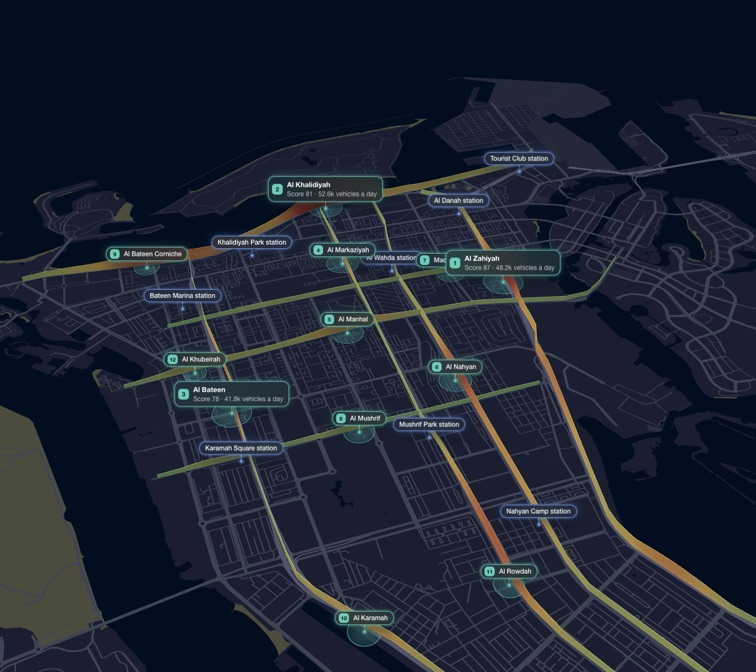
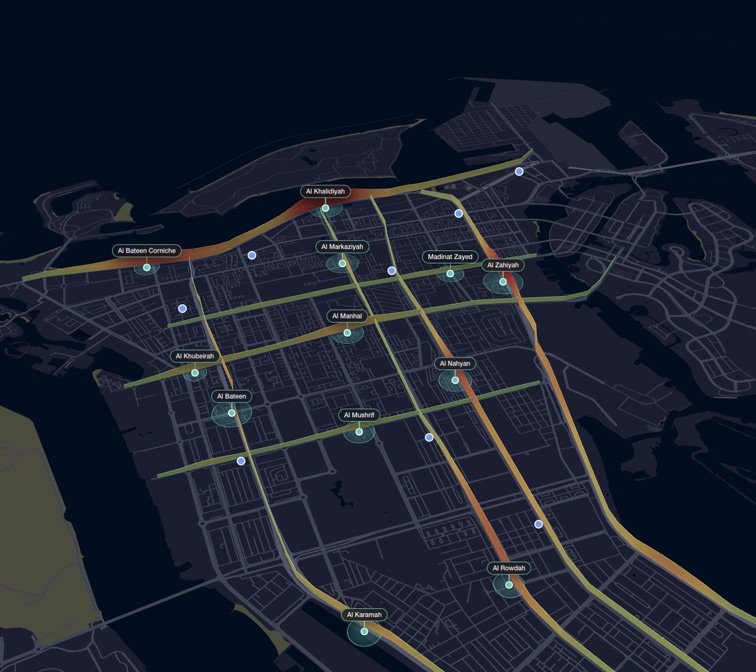
Tomtom: white-ringed dots for sites and stations, name-only pills for candidates, no glow

diff --git a/src/llumen-assistant/tomtom/tomtomMap.css b/src/llumen-assistant/tomtom/tomtomMap.css
@@ -89,7 +89,9 @@
 .tomtom-tip {
   position: absolute;
   z-index: 90;
-  width: 232px;
+  width: max-content;
+  min-width: 232px;
+  max-width: 340px;
   padding: 10px 12px;
   pointer-events: none;
   transform: translate(-50%, calc(-100% - 14px));
@@ -130,9 +132,9 @@
 }
 
 /*
- * A pin stands on its ground point (the element is translated there) as a tooltip above it, outlined in
- * its colour, with a stem down to the spot. `--pop` scales it in as the scene grows; `--z` keeps the best
- * sites on top.
+ * A pin stands on its ground point (the element is translated there): a dot in its colour ringed in
+ * white, and for a site a pill outlined in the same colour above it, joined by a stem. `--pop` scales it
+ * in as the scene grows; `--z` keeps the best sites on top.
  */
 .tomtom-pin {
   position: absolute;
@@ -155,52 +157,52 @@
   z-index: 80;
 }
 
-.tomtom-pin[data-passive='true'] .tomtom-pin-card {
+.tomtom-pin[data-passive='true'] > * {
   pointer-events: none;
 }
 
-.tomtom-pin::after {
-  content: '';
+.tomtom-pin-dot {
   position: absolute;
-  top: -2.5px;
-  left: -2.5px;
-  width: 5px;
-  height: 5px;
+  top: calc(var(--dot) / -2);
+  left: calc(var(--dot) / -2);
+  --dot: 14px;
+  box-sizing: border-box;
+  width: var(--dot);
+  height: var(--dot);
+  border: 2px solid #fff;
   border-radius: 999px;
   background: var(--pin);
-  box-shadow: 0 0 0 3px color-mix(in srgb, var(--pin) 24%, transparent);
+  box-shadow: 0 2px 6px rgba(0, 0, 0, 0.45);
   transform: scale(var(--pop, 1));
+  transition: transform 0.2s ease;
+}
+
+.tomtom-pin[data-kind='station'] .tomtom-pin-dot {
+  --dot: 16px;
 }
 
 .tomtom-pin-card {
   position: absolute;
-  bottom: 12px;
+  bottom: 19px;
   left: 0;
-  display: flex;
-  align-items: center;
-  gap: 8px;
-  padding: 5px 10px 5px 6px;
+  padding: 3px 10px;
   border: 1.5px solid var(--pin);
-  background: color-mix(in srgb, var(--pin) 12%, rgba(20, 22, 28, 0.62));
-  box-shadow:
-    0 0 0 3px color-mix(in srgb, var(--pin) 18%, transparent),
-    0 0 18px color-mix(in srgb, var(--pin) 28%, transparent),
-    0 10px 24px rgba(0, 0, 0, 0.4);
+  border-radius: 999px;
+  background: rgba(20, 22, 28, 0.72);
+  box-shadow: 0 6px 16px rgba(0, 0, 0, 0.35);
+  color: #fff;
+  font-size: 12px;
+  font-weight: 500;
+  line-height: 16px;
   white-space: nowrap;
-  text-align: left;
   transform: translateX(-50%) scale(var(--pop, 1));
   transform-origin: 50% 100%;
   transition:
     transform 0.2s ease,
-    background 0.16s ease,
-    box-shadow 0.2s ease;
+    background 0.16s ease;
 }
 
-.tomtom-pin[data-kind='station'] .tomtom-pin-card {
-  padding-left: 10px;
-}
-
-button.tomtom-pin .tomtom-pin-card {
+button.tomtom-pin > * {
   cursor: pointer;
 }
 
@@ -212,75 +214,32 @@ button.tomtom-pin .tomtom-pin-card {
   width: 1.5px;
   height: 12px;
   margin-left: -0.75px;
-  background: linear-gradient(var(--pin), color-mix(in srgb, var(--pin) 30%, transparent));
-}
-
-.tomtom-pin-rank {
-  display: grid;
-  flex-shrink: 0;
-  place-items: center;
-  min-width: 20px;
-  height: 20px;
-  padding: 0 4px;
-  border-radius: 6px;
   background: var(--pin);
-  color: #0b1414;
-  font-size: 11px;
-  font-weight: 700;
-  line-height: 1;
 }
 
-.tomtom-pin-copy {
-  display: flex;
-  flex-direction: column;
-  gap: 1px;
-}
-
-.tomtom-pin-card b {
-  color: #fff;
-  font-size: 13px;
-  font-weight: 600;
-  line-height: 18px;
-}
-
-.tomtom-pin[data-label='false'] .tomtom-pin-card {
-  padding-top: 3px;
-  padding-bottom: 3px;
-}
-
-.tomtom-pin[data-label='false'] .tomtom-pin-card b {
-  font-size: 12px;
-  font-weight: 500;
-  line-height: 16px;
-}
-
-.tomtom-pin[data-label='false'] .tomtom-pin-rank {
-  min-width: 18px;
-  height: 18px;
-  font-size: 10px;
-}
-
-button.tomtom-pin:hover .tomtom-pin-card,
+.tomtom-pin:hover .tomtom-pin-card,
 .tomtom-pin[data-active='true'] .tomtom-pin-card {
-  background: color-mix(in srgb, var(--pin) 20%, rgba(30, 32, 38, 0.72));
-  box-shadow:
-    0 0 0 4px color-mix(in srgb, var(--pin) 28%, transparent),
-    0 0 24px color-mix(in srgb, var(--pin) 36%, transparent),
-    0 12px 28px rgba(0, 0, 0, 0.5);
+  background: rgba(34, 36, 42, 0.86);
   transform: translateX(-50%) scale(calc(var(--pop, 1) * 1.04));
+}
+
+.tomtom-pin:hover .tomtom-pin-dot,
+.tomtom-pin[data-active='true'] .tomtom-pin-dot {
+  transform: scale(calc(var(--pop, 1) * 1.2));
 }
 
 button.tomtom-pin:focus-visible {
   outline: none;
 }
 
-button.tomtom-pin:focus-visible .tomtom-pin-card {
+button.tomtom-pin:focus-visible > :last-child {
   outline: 2px solid #70aeff;
   outline-offset: 2px;
 }
 
 @media (prefers-reduced-motion: reduce) {
   .tomtom-pin,
+  .tomtom-pin-dot,
   .tomtom-pin-card {
     transition: none;
   }

diff --git a/src/llumen-assistant/tomtom/tomtomScenario.ts b/src/llumen-assistant/tomtom/tomtomScenario.ts
@@ -221,8 +221,8 @@ const VOLUME_GROUP = 'volume'
 const DEMAND_GROUP = 'demand'
 const TRADE_GROUP = 'trade'
 
-/** Labelled pins carry a name card; the rest name themselves on hover. */
-function sitePin(site: Site, rank: number, labelled: boolean, evening = false): TomtomPin {
+/** A candidate carries its name; its figures show on hover. */
+function sitePin(site: Site, rank: number, evening = false): TomtomPin {
   const score = evening ? site.evening : site.score
   return {
     id: site.id,
@@ -230,9 +230,7 @@ function sitePin(site: Site, rank: number, labelled: boolean, evening = false): 
     color: SITE_COLOR,
     kind: 'site',
     rank,
-    label: labelled,
     title: site.area,
-    text: `${evening ? 'Evening score' : 'Score'} ${score} · ${site.traffic.toFixed(1)}k vehicles a day`,
     tip: {
       title: `${site.area} · Site ${rank}`,
       rows: [
@@ -248,15 +246,14 @@ function sitePin(site: Site, rank: number, labelled: boolean, evening = false): 
   }
 }
 
-function stationPin(station: (typeof STATIONS)[number], labelled = false): TomtomPin {
+/** A station is a dot; its name and figures show on hover. */
+function stationPin(station: (typeof STATIONS)[number]): TomtomPin {
   return {
     id: station.id,
     at: station.at,
     color: STATION_COLOR,
     kind: 'station',
-    label: labelled,
     title: `${station.area} station`,
-    text: `${station.volume.toFixed(1)}M litres a year`,
     tip: {
       title: `${station.area} station`,
       rows: [
@@ -342,7 +339,7 @@ const scene = (parts: Partial<TomtomMapScene>): TomtomMapScene => ({
 /** The whole island: every candidate, the network's stations and the day's traffic on the arterials. */
 const ISLAND_SCENE = scene({
   pins: [
-    ...byScore.map((site, index) => sitePin(site, index + 1, index < 3)),
+    ...byScore.map((site, index) => sitePin(site, index + 1)),
     ...STATIONS.map((station) => stationPin(station)),
   ],
   fences: roadFences(ALL_DAY_LOAD, 5, 320),
@@ -360,9 +357,9 @@ const SZBS_RIVALS = closest(SZBS.at, RIVALS, 4)
 /** Site 1 close up: the traffic past it, its neighbouring candidates and your nearest stations. */
 const SZBS_SCENE = scene({
   pins: [
-    sitePin(SZBS, 1, true),
-    ...closest(SZBS.at, SITES.filter((site) => site !== SZBS), 2).map((site) => sitePin(site, rankOf(site), false)),
-    ...closest(SZBS.at, STATIONS, 2).map((station) => stationPin(station, true)),
+    sitePin(SZBS, 1),
+    ...closest(SZBS.at, SITES.filter((site) => site !== SZBS), 2).map((site) => sitePin(site, rankOf(site))),
+    ...closest(SZBS.at, STATIONS, 2).map((station) => stationPin(station)),
   ],
   fences: roadFences(ALL_DAY_LOAD, 5, 130, false, ['szbs', 'muroor', 'hazza', 'falah', 'rashid']),
   disks: [volumeDisk(SZBS, 1.4)],
@@ -371,7 +368,7 @@ const SZBS_SCENE = scene({
 /** Evening: the island re-ranked on 5 to 9pm, the evening's traffic and demand. */
 const EVENING_SCENE = scene({
   pins: [
-    ...byEvening.map((site, index) => sitePin(site, index + 1, index < 3, true)),
+    ...byEvening.map((site, index) => sitePin(site, index + 1, true)),
     ...STATIONS.map((station) => stationPin(station)),
   ],
   fences: roadFences(EVENING_LOAD, 13, 320, true),
@@ -386,7 +383,7 @@ const CORRIDOR_RIVALS = closest(RASHID.at, RIVALS, 5)
 /** Sheikh Rashid Bin Saeed St between 5 and 9pm: the corridor's traffic and demand, and the site on it. */
 const CORRIDOR_SCENE = scene({
   pins: [
-    ...closest(RASHID.at, SITES, 3).map((site) => sitePin(site, eveningRankOf(site), site === RASHID, true)),
+    ...closest(RASHID.at, SITES, 3).map((site) => sitePin(site, eveningRankOf(site), true)),
     ...closest(RASHID.at, STATIONS, 2).map((station) => stationPin(station)),
   ],
   fences: roadFences(EVENING_LOAD, 13, 120, true, CORRIDOR_STREETS),
@@ -398,7 +395,7 @@ const CORRIDOR_SCENE = scene({
 /** The rivals' trade areas round the corridor, and the gap the site fills. */
 const TRADE_SCENE = scene({
   pins: [
-    sitePin(RASHID, eveningRankOf(RASHID), true, true),
+    sitePin(RASHID, eveningRankOf(RASHID), true),
     ...closest(RASHID.at, STATIONS, 2).map((station) => stationPin(station)),
   ],
   fences: roadFences(EVENING_LOAD, 13, 160, true, CORRIDOR_STREETS),

diff --git a/src/llumen-assistant/tomtom/tomtomMapLayers.ts b/src/llumen-assistant/tomtom/tomtomMapLayers.ts
@@ -63,8 +63,8 @@ export type TomtomFence = {
 export type TomtomDisk = { id: string; at: LngLat; radiusM: number; color: string; group: string }
 
 /**
- * A place on the map, drawn as a tooltip outlined in its colour: a candidate `site` (numbered by `rank`)
- * or a current `station`. `label` adds its figures (`text`) under its name.
+ * A place on the map, a dot in its colour: a candidate `site`, named in a pill outlined in that colour
+ * and stacked by `rank`, or a current `station`, named only in its hover `tip`.
  */
 export type TomtomPin = {
   id: string
@@ -72,9 +72,7 @@ export type TomtomPin = {
   color: string
   kind: 'site' | 'station'
   rank?: number
-  label?: boolean
   title: string
-  text: string
   tip: TomtomTip
   group: string
 }
@@ -553,9 +551,9 @@ type PinEntry = { el: HTMLElement; pin: TomtomPin; anchor: [number, number, numb
 export type PinHover = (pin: TomtomPin | null, point?: { x: number; y: number }) => void
 
 /**
- * The scene's pins, as tooltips standing on their places: candidate sites outlined in teal and numbered
- * by rank, current stations in blue, each popping in one after another as the scene grows. Sites with a
- * details panel open it on click; every pin names itself through `onHover`.
+ * The scene's pins, as dots on their places: candidate sites in teal under a pill with their name,
+ * current stations in blue, each popping in one after another as the scene grows. Sites with a details
+ * panel open it on click; every pin names itself through `onHover`.
  */
 export class TomtomPins {
   private map: mapboxgl.Map
@@ -603,18 +601,18 @@ export class TomtomPins {
       el.setAttribute('aria-hidden', 'true')
     }
     if (!pick && !this.onHover) el.dataset.passive = 'true'
-    el.dataset.label = pin.label ? 'true' : 'false'
-    const rank = pin.kind === 'site' && pin.rank ? `<span class="tomtom-pin-rank" aria-hidden="true">${pin.rank}</span>` : ''
-    const text = pin.label ? `<span>${escapeHtml(pin.text)}</span>` : ''
-    el.innerHTML = `<span class="tomtom-pin-card">${rank}<span class="tomtom-pin-copy"><b>${escapeHtml(pin.title)}</b>${text}</span></span>`
+    const card = pin.kind === 'site' ? `<span class="tomtom-pin-card">${escapeHtml(pin.title)}</span>` : ''
+    el.innerHTML = `<span class="tomtom-pin-dot"></span>${card}`
     if (this.onHover) {
-      const card = el.firstElementChild as HTMLElement
-      card.addEventListener('mouseenter', () => {
-        const rect = card.getBoundingClientRect()
-        const box = this.map.getContainer().getBoundingClientRect()
-        this.onHover?.(pin, { x: rect.left + rect.width / 2 - box.left, y: rect.top - box.top })
-      })
-      card.addEventListener('mouseleave', () => this.onHover?.(null))
+      const top = el.lastElementChild as HTMLElement
+      for (const target of el.children) {
+        target.addEventListener('mouseenter', () => {
+          const rect = top.getBoundingClientRect()
+          const box = this.map.getContainer().getBoundingClientRect()
+          this.onHover?.(pin, { x: rect.left + rect.width / 2 - box.left, y: rect.top - box.top })
+        })
+        target.addEventListener('mouseleave', () => this.onHover?.(null))
+      }
     }
     this.map.getContainer().appendChild(el)
     const { x, y, z } = mapboxgl.MercatorCoordinate.fromLngLat(pin.at, 0)

diff --git a/src/llumen-assistant/landing/landingFindingExperiences.ts b/src/llumen-assistant/landing/landingFindingExperiences.ts
@@ -199,7 +199,7 @@ const ttAsk = () =>
     sections: [
       {
         heading: 'On the map',
-        text: 'The teal labels are the candidates, numbered by rank, and the blue ones your stations. The fences on the roads are traffic density: the taller and redder a stretch, the heavier its traffic, from green through yellow to dark red. Hover any label or fence for its figures.',
+        text: 'The teal pins are the candidates and the blue dots your stations. The fences on the roads are traffic density: the taller and redder a stretch, the heavier its traffic, from green through yellow to dark red. Hover any pin or fence for its figures.',
       },
       {
         heading: 'Top sites',
@@ -258,7 +258,7 @@ const ttDive = () => {
     sections: [
       {
         heading: 'On the map',
-        text: 'The fences are traffic in both directions, tallest and reddest where it is densest, which on Sheikh Zayed Bin Sultan St is right outside the site. The blue labels are your two closest stations. Click the site’s label for its full details.',
+        text: 'The fences are traffic in both directions, tallest and reddest where it is densest, which on Sheikh Zayed Bin Sultan St is right outside the site. The blue dots are your two closest stations. Click the site’s pin for its full details.',
       },
       {
         heading: 'Traffic by hour',
@@ -321,7 +321,7 @@ const ttEvening = () =>
     sections: [
       {
         heading: 'On the map',
-        text: 'The sites are renumbered by evening rank. The purple glow is fuel demand from 5 to 9pm, heaviest along Sheikh Rashid Bin Saeed St and Al Khaleej Al Arabi St. The fences now show evening traffic, densest on Sheikh Zayed Bin Sultan St and those same two streets.',
+        text: 'The sites are re-ranked by their evening score. The purple glow is fuel demand from 5 to 9pm, heaviest along Sheikh Rashid Bin Saeed St and Al Khaleej Al Arabi St. The fences now show evening traffic, densest on Sheikh Zayed Bin Sultan St and those same two streets.',
       },
       {
         heading: 'Evening ranking',

diff --git a/src/llumen-assistant/tomtom/TomtomStory.module.css b/src/llumen-assistant/tomtom/TomtomStory.module.css
@@ -51,15 +51,16 @@
   border-radius: 999px;
 }
 
-/* The map's own marks in miniature: a pin's outlined tooltip, a fence's wall and a volume disk. */
+/* The map's own marks in miniature: a pin's white-ringed dot, a fence's wall and a volume disk. */
 .pinGlyph {
   display: block;
-  width: 16px;
-  height: 11px;
-  margin: 0 0 2px;
-  border: 1.5px solid var(--glyph);
-  border-radius: 4px;
-  background: color-mix(in srgb, var(--glyph) 18%, rgba(26, 26, 26, 0.5));
+  box-sizing: border-box;
+  width: 12px;
+  height: 12px;
+  margin: 0 0 1px;
+  border: 2px solid #fff;
+  border-radius: 999px;
+  background: var(--glyph);
 }
 
 .fenceGlyph {
